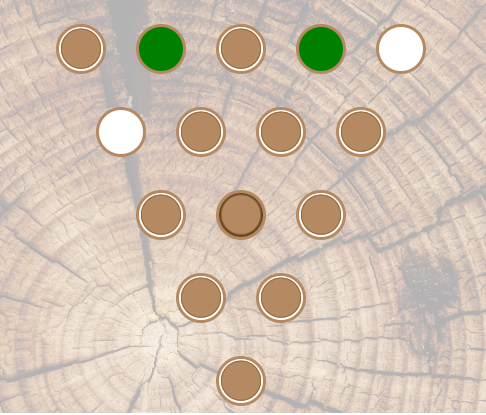
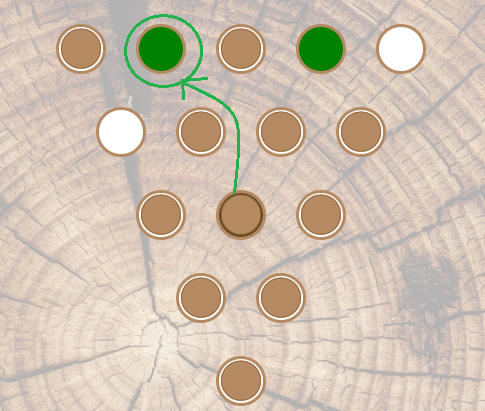
changes after feedback on clarity of gameplay and more specific instructions

diff --git a/index.html b/index.html
@@ -8,25 +8,16 @@
     <title>Triangle Peg Game</title>
 </head>
 <body>
-    <!-- Modal for gameplay explanation -->
-    <div class="modal fade" id="gamePlayModal" tabindex="-1" aria-labelledby="gamePlayModalLabel" aria-hidden="true" data-bs-backdrop="static">
+    <!-- Modal for Objective -->
+    <div class="modal fade" id="objectiveModal" tabindex="-1" aria-labelledby="objectiveModalLabel" aria-hidden="true" data-bs-backdrop="static">
         <div class="modal-dialog modal-dialog-centered">
             <div class="modal-content">
                 <div class="modal-header">
-                    <h5 class="modal-title" id="gamePlayModalLabel">How to play Peg Solitaire Game?</h5>
-                    <button type="button" id="btnCloseGameplay" class="btn-close d-none" data-bs-dismiss="modal" aria-label="Close"></button>
+                    <h5 class="modal-title" id="objectiveModalLabel">Objective:</h5>
+                    <button type="button" id="btnCloseObjective" class="btn-close d-none" data-bs-dismiss="modal" aria-label="Close"></button>
                 </div>
                 <div class="modal-body">
-                    <h4>Objective:</h4>
                     <p>The objective of the Triangle Peg Game is to remove as many pegs as possible by jumping over them with other pegs, until no more moves are possible, or you've cleared the board except for one peg.</p>
-                    <h4>Gameplay:</h4>
-                    <ul>
-                        <li>Pegs can only move by jumping over adjacent pegs to vacant holes.</li>
-                        <li>You can jump horizontally or diagonally over an adjacent peg to an empty hole.</li>
-                        <li>The peg that was jumped over is removed from the board.</li>
-                    </ul>
-                    <p>When there are multiple possible moves for the same peg, simply tap or click on the green hole to execute the desired move.</p>
-                    <img clas src="https://samjohn87.github.io/peg_game/images/multiple_choices.png" class="img-fluid" alt="Responsive image">
                     <div class="mt-3 d-grid gap-2">                        
                         <button id="btnStartGame" class="btn-custom">Start Game</button>
                     </div>
@@ -34,12 +25,12 @@
             </div>
         </div>
     </div>
-    <!-- The Modal -->
+    <!-- The Modal to pick a hole instrcutions -->
     <div class="modal fade" id="pegHoleSelectModal" tabindex="-1" role="dialog" aria-labelledby="pegHoleSelectModalLabel" aria-hidden="true">
         <div class="modal-dialog" role="document">
             <div class="modal-content">
                 <div class="modal-header">
-                    <h5 class="modal-title" id="exampleModalLabel">Select where to start game.</h5>
+                    <h5 class="modal-title" id="pegHoleSelectModalLabel">Select where to start game.</h5>
                     <button type="button" class="btn-close" data-bs-dismiss="modal" aria-label="Close"></button>
                 </div>
                 <div class="modal-body">
@@ -48,6 +39,33 @@
                 </div>
                 <div class="modal-footer">
                     <button type="button" id="btnGotIt" class="btn-custom">Got it</button>
+                </div>
+            </div>
+        </div>
+    </div>
+    <!-- The Modal for gameplay -->
+    <div class="modal fade" id="gameplayModal" tabindex="-1" role="dialog" aria-labelledby="gameplayModalLabel" aria-hidden="true">
+        <div class="modal-dialog" role="document">
+            <div class="modal-content">
+                <div class="modal-header">
+                    <h5 class="modal-title" id="gameplayModalLabel">Gameplay:</h5>
+                    <button type="button" class="btn-close" data-bs-dismiss="modal" aria-label="Close"></button>
+                </div>
+                <div class="modal-body">
+                    <ul>
+                        <li>
+                            <p>Click or tap on a peg <img src="https://samjohn87.github.io/peg_game/images/peg.png" class="small-peg" alt="peg image"> to move it over an adjacent peg to a vacant hole <img src="https://samjohn87.github.io/peg_game/images/empty_hole.png" class="small-peg" alt="empty hole image">.</p>
+                            <p><img src="https://samjohn87.github.io/peg_game/images/possible_moves.png" class="img-fluid" alt="moves example image"></p>
+                        </li>
+                        <li>The peg that was jumped over is removed from the board.</li>
+                        <li>
+                            <p>When there are multiple possible moves for the same peg, simply tap or click on the green hole to execute the desired move.</p>
+                            <p><img clas src="https://samjohn87.github.io/peg_game/images/multiple_choices.png" class="img-fluid" alt="Responsive image"></p>
+                        </li>
+                    </ul>
+                </div>
+                <div class="modal-footer">
+                    <button type="button" id="btnLetsGo" class="btn-custom">Let's Go!</button>
                 </div>
             </div>
         </div>

diff --git a/js/peg_game.js b/js/peg_game.js
@@ -15,33 +15,36 @@ let TO_HOLE_NUMBER = 0;
 let MOVES_ALLOWED = []; //keeps track of how many moves are possible
 
 const GAME_COMPLETE_MODAL = new bootstrap.Modal(document.querySelector('#gameCompletedModal'));
-const GAMEPLAY_MODAL = new bootstrap.Modal(document.querySelector('#gamePlayModal'));
+const OBJECTIVE_MODAL = new bootstrap.Modal(document.querySelector('#objectiveModal'));
 const PEG_HOLE_SELECT_MODAL = new bootstrap.Modal(document.querySelector('#pegHoleSelectModal'));
+const GAMEPLAY_MODAL = new bootstrap.Modal(document.querySelector('#gameplayModal'));
 const BTN_START_GAME = document.querySelector('#btnStartGame');
 const STOPWATCH = document.querySelector('.stopwatch');
 const BTN_PLAY = document.querySelector('#linkGameplay');
 const BTN_RESET_GAME = document.querySelector('#btnResetGame');
 const BTN_PLAY_AGAIN = document.querySelector('#btnPlayAgain');
 const BTN_GOT_IT = document.querySelector('#btnGotIt');
+const BTN_LETS_GO = document.querySelector('#btnLetsGo');
 let FIRST_MOVE = true; //will be use to start the stopwatch after the first move
 let SECONDS = 0;
 let INTERVAL;
 let PEGS_LEFT; //number of pegs on the board
 
 
-// Show the gameplay modal when the page is loaded
+// Show the objective modal when the page is loaded
 document.addEventListener("DOMContentLoaded", function () {
-    GAMEPLAY_MODAL.show();
+    OBJECTIVE_MODAL.show();
 });
 
 //btn eventlisteners
 BTN_PLAY.addEventListener('click', showGameplay);
 BTN_GOT_IT.addEventListener('click', selectHole);
 BTN_START_GAME.addEventListener('click', startGame);
+BTN_LETS_GO.addEventListener('click', closeGameplayModal);
 
 function startGame() {
 
-    GAMEPLAY_MODAL.hide();
+    OBJECTIVE_MODAL.hide();
     PEG_HOLE_SELECT_MODAL.show();
 
     //add event listener on every hole of the board to select the starting hole
@@ -62,18 +65,25 @@ function selectHole() {
 
 }
 
+function closeGameplayModal() {
+
+    GAMEPLAY_MODAL.hide();
+
+}
+
 
 function initializeBoard(firstPegHole) {
 
-    GAME_COMPLETE_MODAL.hide();
-    //console.log(firstPegHole);
+    //console.log(FIRST_MOVE);
 
-    const INIT_FUNCTION = () => initializeBoard(firstPegHole);
-    BTN_RESET_GAME.addEventListener('click', INIT_FUNCTION);
-    BTN_PLAY_AGAIN.addEventListener('click', INIT_FUNCTION);
+    if (FIRST_MOVE) {
 
-    //remove all pegs
-    removeAllPegs();
+        GAMEPLAY_MODAL.show();
+        const INIT_FUNCTION = () => initializeBoard(firstPegHole);
+        BTN_RESET_GAME.addEventListener('click', INIT_FUNCTION);
+        BTN_PLAY_AGAIN.addEventListener('click', INIT_FUNCTION);
+
+    }
 
     //reset
     MOVES_ALLOWED = []; 
@@ -84,6 +94,16 @@ function initializeBoard(firstPegHole) {
     clearInterval(INTERVAL);
     STOPWATCH.textContent = "00:00";
     SECONDS = 0
+
+    GAME_COMPLETE_MODAL.hide();
+    
+    //console.log(firstPegHole); 
+
+    
+
+    //remove all pegs
+    removeAllPegs();
+    
 
     //display pegs in empty peg holes except the one selected
     createPegImgs(firstPegHole);
@@ -156,7 +176,7 @@ function movePeg(pegHoleIdx) {
     const allselected = document.querySelectorAll('.selected');
     allselected.forEach((element) => element.classList.remove('selected'));
 
-    if(FIRST_MOVE === true) {
+    if(FIRST_MOVE) {
         startStopwatch();
         FIRST_MOVE = false;
     }
@@ -486,11 +506,6 @@ function showGameCompletedModal() {
 
 function showGameplay() {
 
-    //display close button
-    const btnCloseGameplay = document.querySelector('#btnCloseGameplay');
-    btnCloseGameplay.classList.remove('d-none');
-    //hide start button 
-    BTN_START_GAME.classList.add('d-none');
     GAMEPLAY_MODAL.show();
 
 }

diff --git a/css/style.css b/css/style.css
@@ -28,6 +28,11 @@ body {
     height: 100%;
 }
 
+.small-peg {
+    width: 35px;
+    height: 35px;
+}
+
 .btn-custom {
     padding: 10px 20px;
     border: none;
